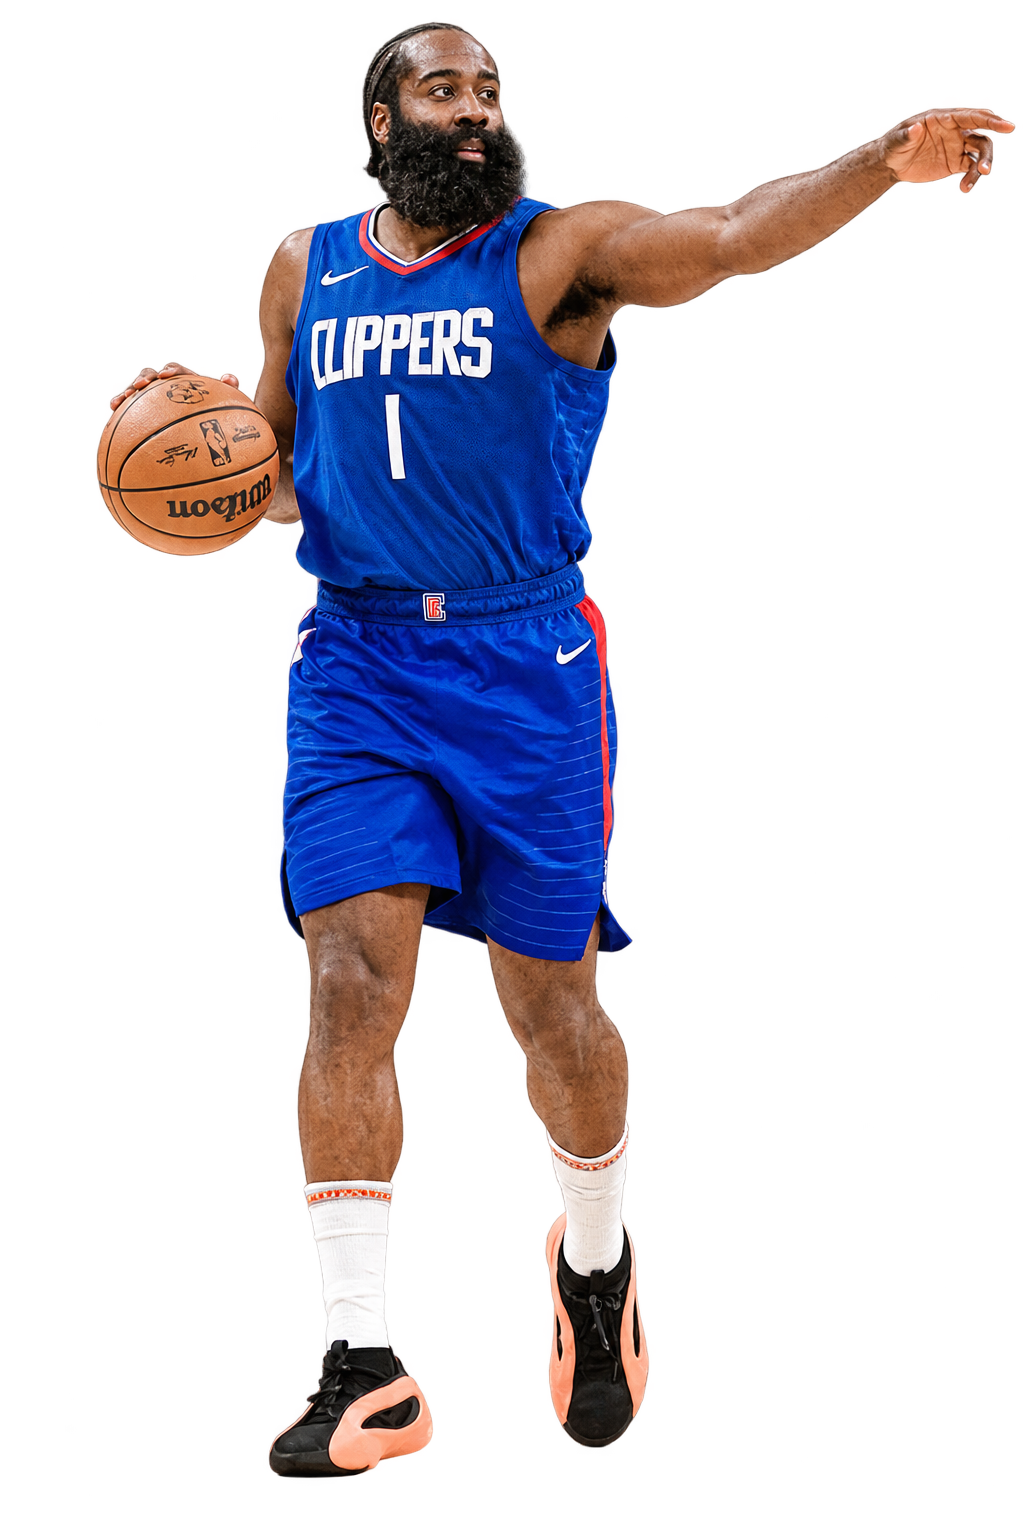
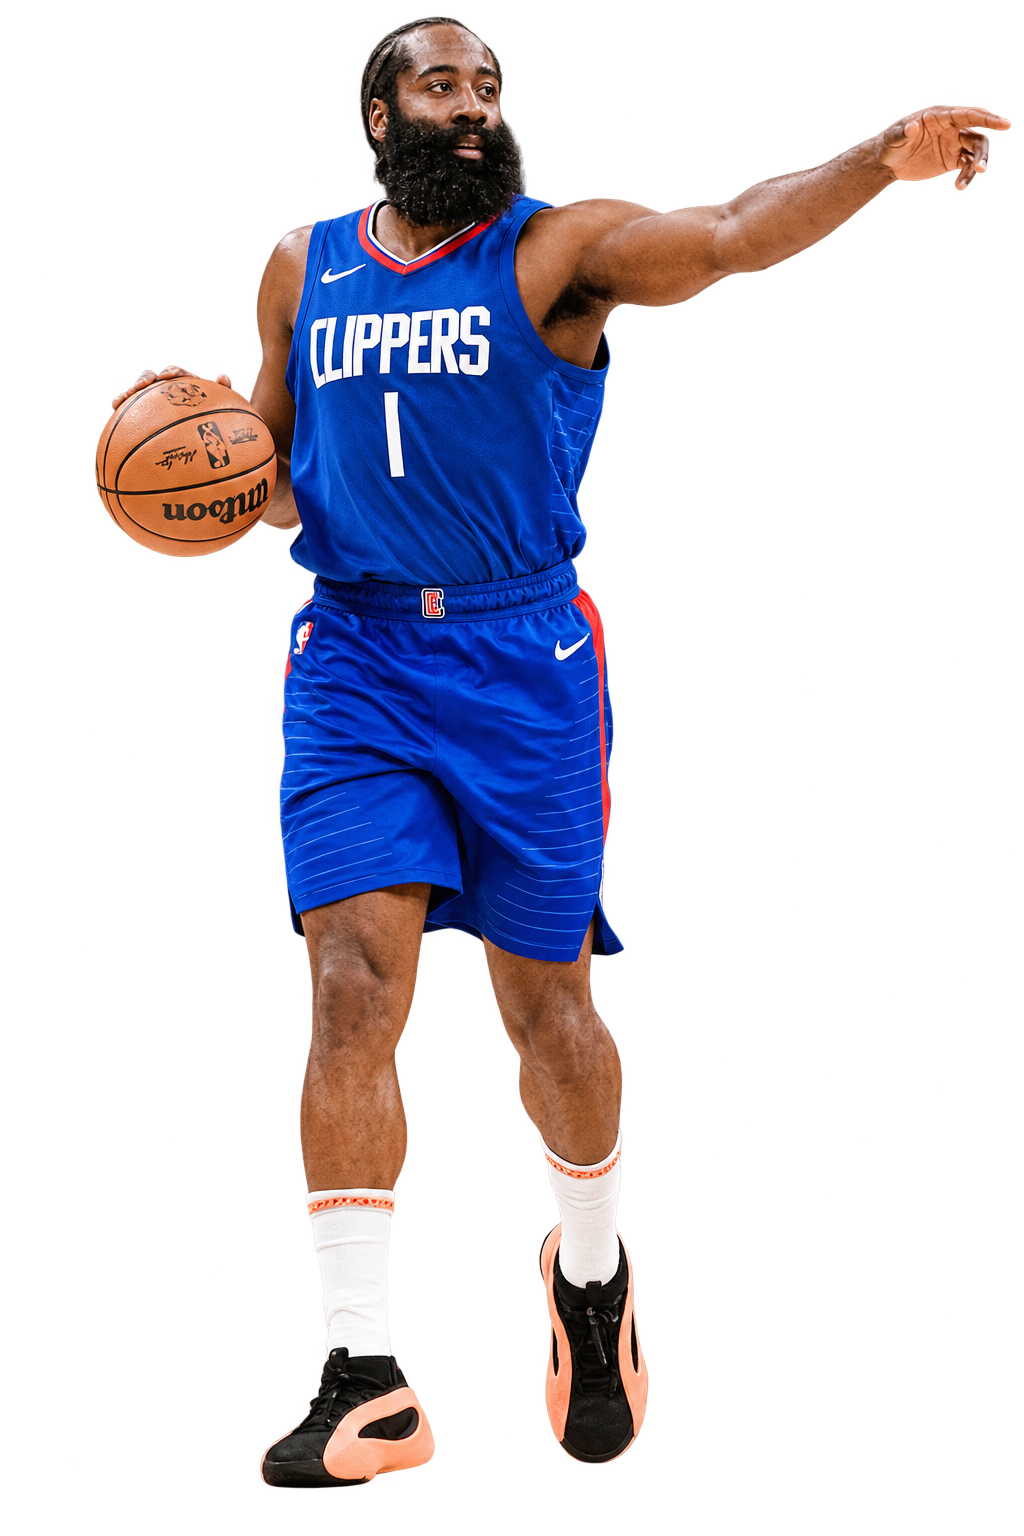
modify NIUZI

diff --git a/friends.js b/friends.js
@@ -243,20 +243,6 @@ const friends = [
     ],
     url: " "
   },
-  {
-    id: "",
-    showOnHome: false,
-    name: "",
-    avatar: "",
-    photo: "",
-    description: "",
-    tags: [""],
-    characterImage: "",
-    bio: [
-      "",
-    ],
-    url: " "
-  }
 ];
 
   // {
